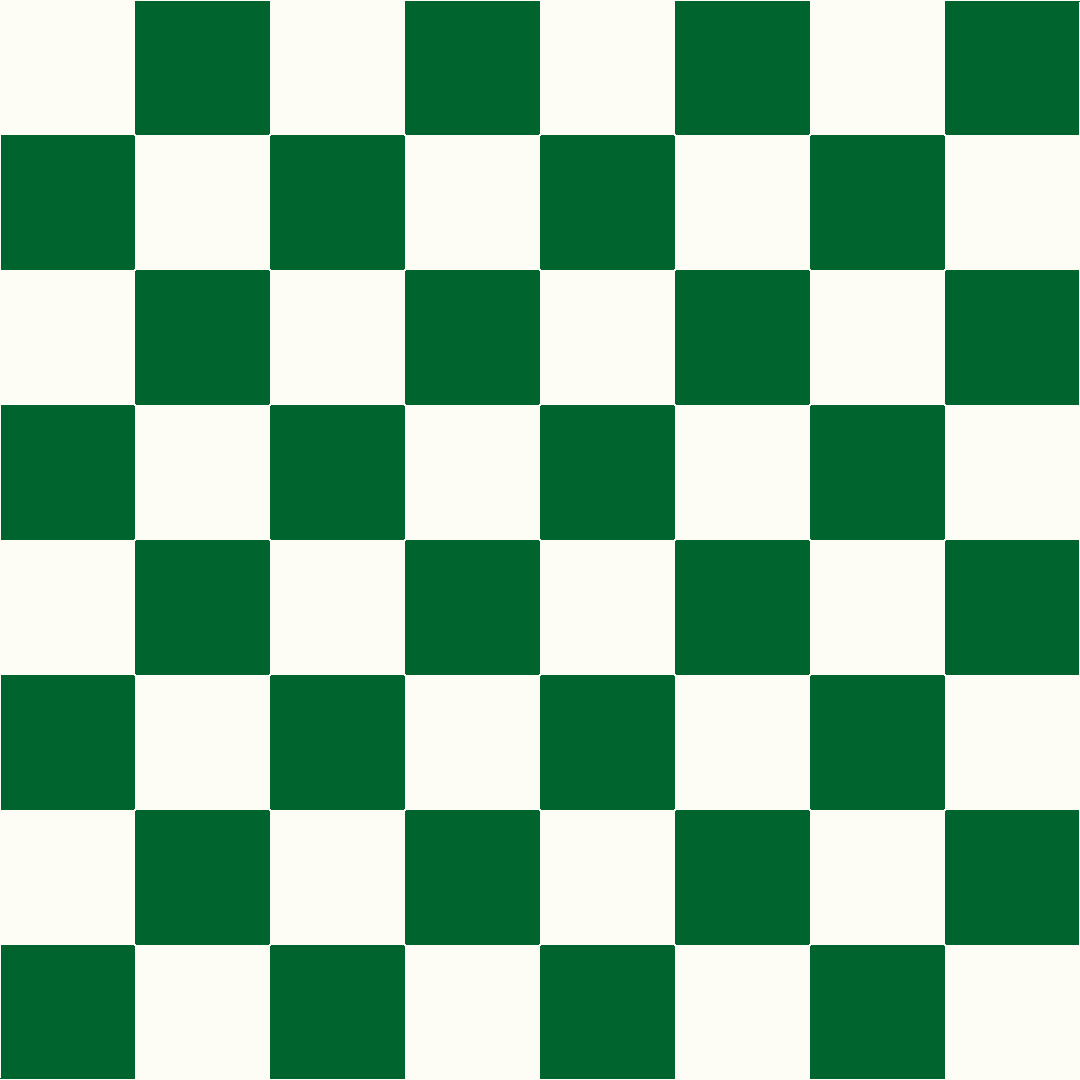
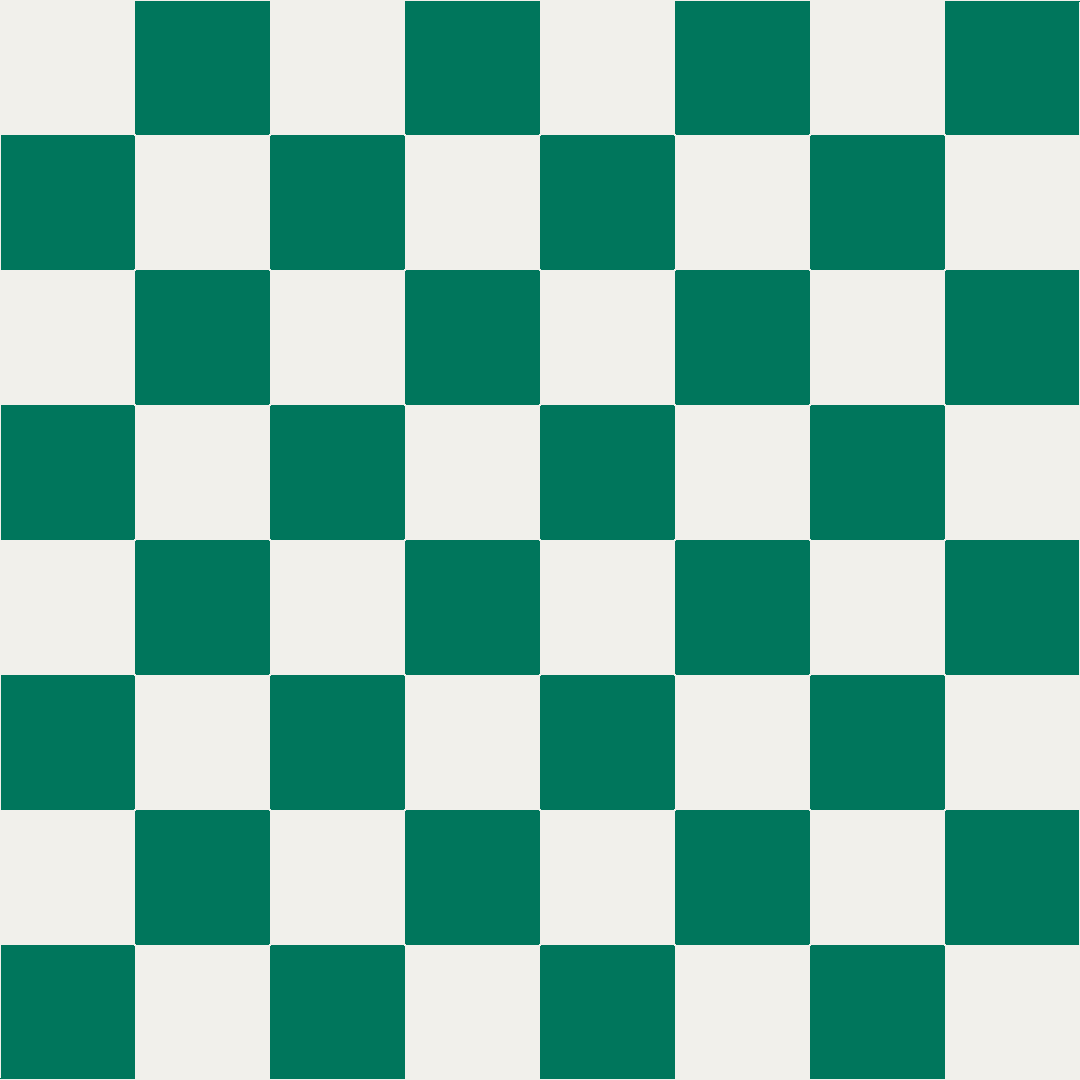
Tweaks to colors for visibility

diff --git a/Board: Green Vinyl/Lichess Board: Green Vinyl.css b/Board: Green Vinyl/Lichess Board: Green Vinyl.css
@@ -3,11 +3,11 @@
 @namespace    USO Archive
 @author       Arthur Huan
 @description  A board style mimicking green vinyl boards
-@version      1.0.0
+@version      1.1.0
 @preprocessor uso
 ==/UserStyle== */
 @-moz-document domain("lichess.org") {
     .is2d cg-board::before {
[2 lines of base64/hex data omitted]
     }
 }
